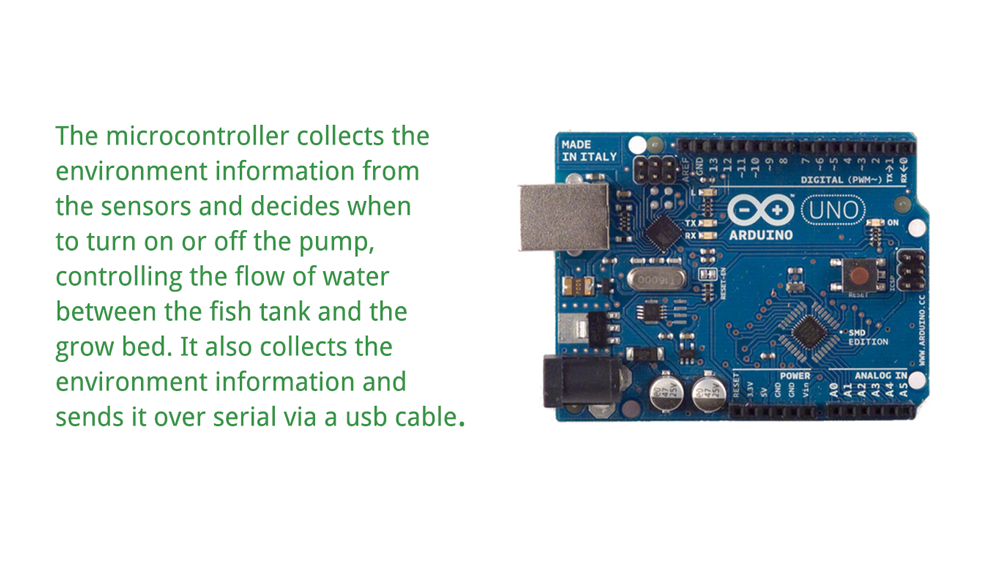
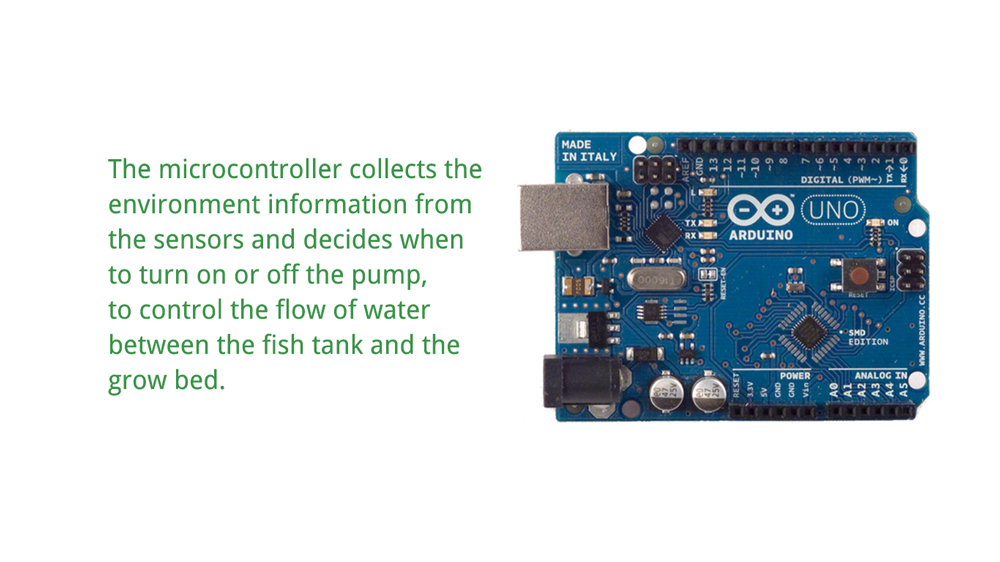
done with this now :tropical_fish: :fish:

Changed region(s): [[0.031, 0.2117, 0.496, 0.6352], [0.062, 0.726, 0.465, 0.7562], [0.031, 0.6655, 0.403, 0.6957]]

diff --git a/home.html b/home.html
@@ -18,38 +18,7 @@
 		<!-- skin -->
 		<link rel="stylesheet" href="skin/default.css">
     </head>
-	 
-    <style type="text/css">
-    	#feauture3_1:hover {
-    	    background-color:#f2af95;
-    	    cursor:pointer;
-    	}
-    	#feauture3_2:hover {
-    	    background-color:#f2af95;
-    	    cursor:pointer;
-    	}
-    	#feauture3_3:hover {
-    	    background-color:#f2af95;
-    	    cursor:pointer;
-    	}
-    	#feauture3_4:hover {
-    	    background-color:#f2af95;
-    	    cursor:pointer;
-    	}
-
-    	#feauture3 {
-    	    height: 100%;
-    	    width: 100%;
-    	    background: url(img/pins.jpg) 50% 50% no-repeat;
-    	    left:0;
-    	    background-size: cover;
-    	    background-color:#e18764;
-    	    color:red;
-    	    -webkit-transition:all 1s ease-in-out;
-    	    padding-top: 250px;
-    	    padding-bottom: 250px;
-    	}
-    </style>
+	
 
     <body>
 		<section id="header" class="appear"></section>
@@ -99,10 +68,13 @@
 			<div class="container">
 				
 				<div class="row mar-bot40">
-					<div class="col-md-offset-3 col-md-6">
+					<div class="col-md-offset-2 col-md-8">
 						<div class="section-header">
 							<h2 class="section-heading animated" data-animation="bounceInUp">How Does It Work?</h2>
-							<p>A system of aquaculture in which the waste produced by farmed fish or other aquatic creatures supplies the nutrients for plants grown hydroponically, which in turn purify the water.</p>
+							<p>Aquaponics is a food production system that is a combination of hydroponics (growing plants in water) and aquaculture (raising aquatic animals such as fish). </p>
+							
+							<p>Water from the fish tank is pumped into the plant bed which is then filtered back into the fish tank. The water used to nourish the plants has a number of nutrients found in the excretions from the fish. This is then broken down into nitrates and nitrites by nitrifying bacteria for the plants to absorb.</p>
+							<br>
 							<img src="aqua.png">
 						</div>
 					</div>
@@ -125,7 +97,7 @@
 							<div class="align-center">
 										<div class="testimonial pad-top40 pad-bot40 clearfix">
 											<!-- <h5>
-												Nunc velit risus, dapibus non interdum quis, suscipit nec dolor. Vivamus tempor tempus mauris vitae fermentum. In vitae nulla lacus. Sed sagittis tortor vel arcu sollicitudin nec tincidunt metus suscipit.Nunc velit risus, dapibus non interdum.
+												
 											</h5> -->
 											<br/>
 											
@@ -176,15 +148,16 @@
 			
 
 		<section>
-		<div class="" id="feauture3">
-		    <div id="feauture3_content">
-		        <div id="feauture3_1">UNO</div>
-		        <div id="feauture3_2">Water Level</div>
-		        <div id="feauture3_3">pH</div>
-		        <div id="feauture3_4">Temperature <img src="img/tempp.png"></div>
+		<div id="feauture3">
+		    <div class="col-md-1 sensors">
+		        <div id="feauture3_1"><img src="img/microconn.png"></div>
+		        <div id="feauture3_2"><img src="img/waterdropp.png"></div>
+		        <div id="feauture3_3"><img src="img/waterr.png"></div>
+		        <div id="feauture3_4"><img src="img/tempp.png"></div>
 		    </div>
 		</div>
 		</section>
+		
 
 			
 		<!-- about -->
@@ -195,13 +168,12 @@
 					<div class="col-md-offset-3 col-md-6">
 						<div class="section-header">
 							<h2 class="section-heading animated" data-animation="bounceInUp">Specs</h2>
-							<!-- <p>Meet the heads behind our system.</p> -->
 						</div>
 					</div>
 				</div>
 
 					<div class="row mar-bot40">
-						<div class="col-md-5">
+						<div class="col-md-12">
 							<div class="team-member">
 								<div class="team-detail">
 									<h5>App</h5>
@@ -209,24 +181,22 @@
 								</div>
 							</div>
 							<br>
+							<hr>
 							<div class="team-member">
 								<div class="team-detail">
 									<h5>Content</h5>
 									<span>1 Aquarium with water pump, temperature, pH and water level sensors, 1 Plant Bed with growing medium</span>
 								</div>
 							</div>
-						</div>
-						
-						<div class="col-md-5 col-md-offset-1">
+							<br>
+							<hr>
 							<div class="team-member">
-								<!-- <figure class="member-photo"><img src="img/team/member3.jpg" alt="" /></figure> -->
 								<div class="team-detail">
 								<h5>Environment</h5>
 									<span>For the home; more preferably indoors :)</span>
 								</div>
 							</div>
 						</div>
-						
 					</div>
 						
 		</div>
@@ -251,8 +221,7 @@
 				<div class="row mar-bot40">
 					<div class="col-md-offset-3 col-md-6">
 						<div class="section-header">
-							<!-- <h2 class="section-heading animated" data-animation="bounceInUp">Specs</h2> -->
-							<h3>Have we still not sparked your interest in Aquaponics on a whole?</h3>
+							<h3>Have we still not sparked your interest in Aquaponics?</h3>
 							<h4>Take a look at some of these aquaponics videos we found interesting :)</h4>
 						</div>
 					</div>
@@ -422,11 +391,11 @@
         	    });
 
         	    $("#feauture3_2").click(function () {
-        	        $("#feauture3").css('background-image', 'url(img/ultrasonic.png)');
+        	        $("#feauture3").css('background-image', 'url(img/phsensor.png)');
         	    });
 
         	    $("#feauture3_3").click(function () {
-        	        $("#feauture3").css('background-image', 'url(img/phsensor.png)');
+        	        $("#feauture3").css('background-image', 'url(img/ultrasonic.png)');
         	    });
 
         	    $("#feauture3_4").click(function () {

diff --git a/css/style.css b/css/style.css
@@ -193,7 +193,7 @@ a:hover {
 	padding-top: 35px;
 }
 .pad-top40 {
-	padding-top: 40px;
+	padding-top: 100px;
 }
 /* bottom */
 .pad-bot0 {
@@ -223,7 +223,7 @@ a:hover {
 	padding-bottom: 35px;
 }
 .pad-bot40 {
-	padding-bottom: 40px;
+	padding-bottom: 100px;
 }
 
 
@@ -1099,3 +1099,40 @@ Media queries
 .page-header {
 	margin-top: 70px;
 }
+
+/*sensors*/
+
+#feauture3_1:hover {
+    	    background-color: rgba(52, 152, 219, 0);
+    	    cursor:pointer;
+    	}
+    	#feauture3_2:hover {
+    	    background-color: rgba(52, 152, 219, 0);
+    	    cursor:pointer;
+    	}
+    	#feauture3_3:hover {
+    	    background-color: rgba(52, 152, 219, 0);
+    	    cursor:pointer;
+    	}
+    	#feauture3_4:hover {
+    	    background-color: rgba(52, 152, 219, 0);
+    	    cursor:pointer;
+    	}
+
+    	#feauture3 {
+    	    height: 100%;
+    	    width: 100%;
+    	    background: url(../img/pins.png) 50% 50% no-repeat;
+    	    left:0;
+    	    background-size: cover;
+    	    background-color:#e18764;
+    	    color: #3498db;
+    	    -webkit-transition:all 1s ease-in-out;
+    	    padding-top: 250px;
+    	    padding-bottom: 250px;
+    	    font-weight: bold;
+    	}
+
+    	.sensors {
+    		float: none;
+    	}
